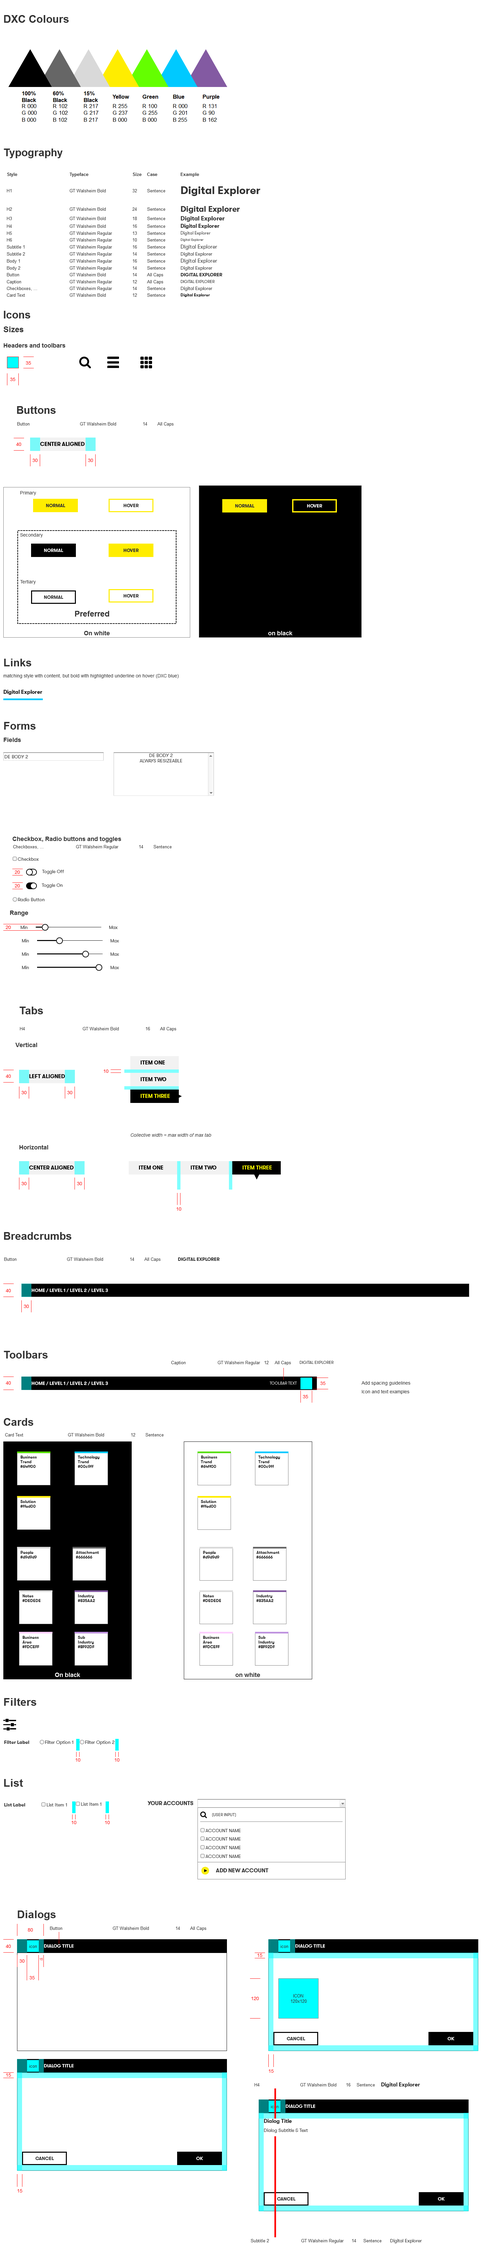
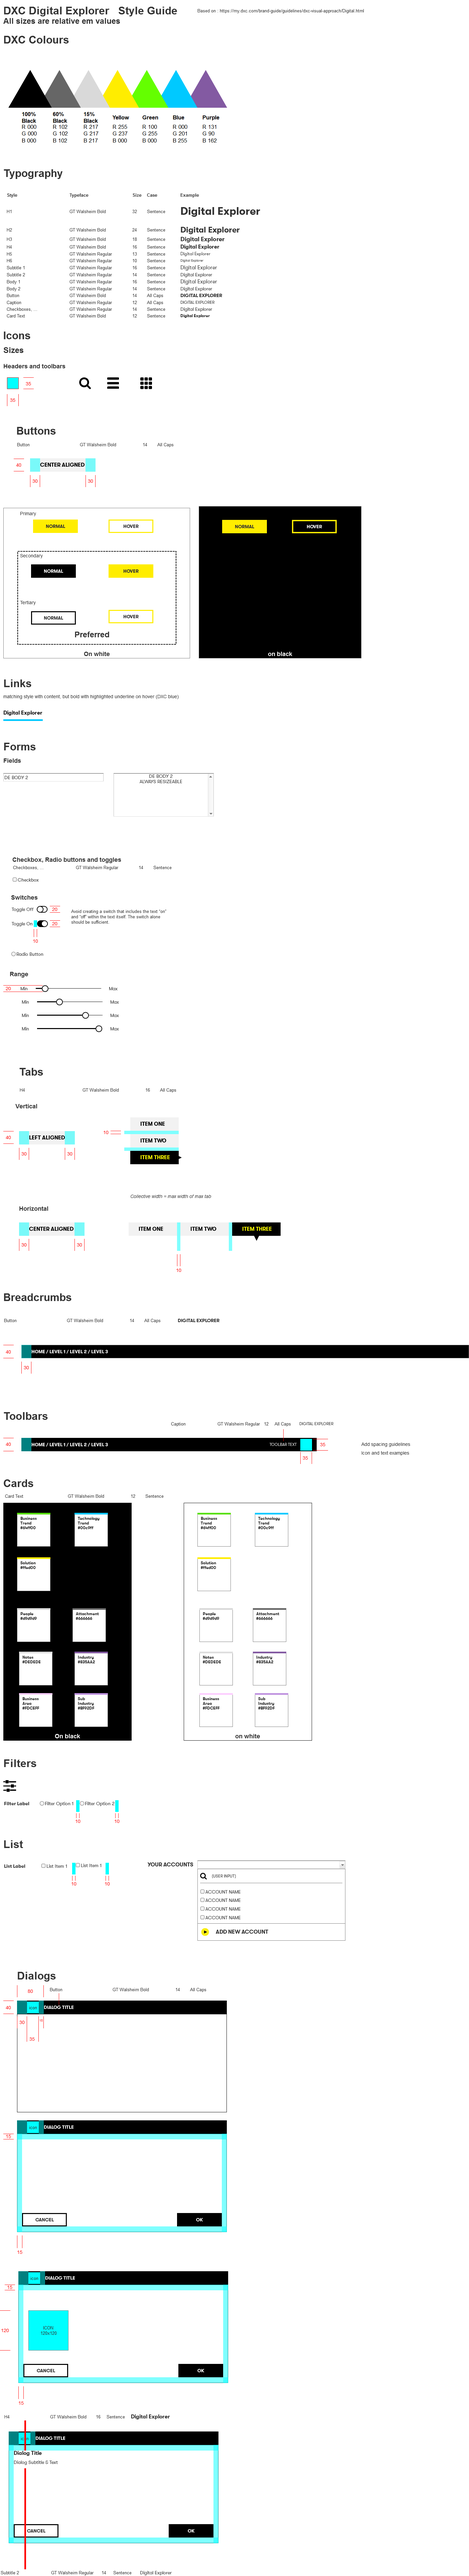
:pencil: Typography

diff --git a/ReleaseNotes/readme.md b/ReleaseNotes/readme.md
@@ -27,28 +27,43 @@
   - Improved contacts page layout (DE-997)
   - Search within Delivery centers (DE-1087)
   - Close tab validation check during add/edit (DE-1069)
+  - Inline images scale within datasheet (DE-989)
+  - Media - allow users to preview during solution add/edit (DE-1002)
+  - Improved Error reporting (DE-993)
 
 - Roadmaps UX
   - Suggested solution order based on trend count (DE-1207)
+  - Improved filter options for matching solutions (DE-1208)
   - Tooltips for risk/ambition profile table (DE-1200)
   - Fast edit to Canvas (DE-1201)
   - Ideas Capture : Improved UI (DE-980)
   - Improve menu descriptions (DE-1218)
   - Show description in Summary view (DE-1222)
   - Rename stakeholder tab (DE-1049)
-
+  - Add Workspace improved for Suggested solutions (DE-1209)
 
 - Playbooks UX
   - Style of "About DXC" page (DE-1242)
   - Renamed "DXC Showcase solutions" to "Showcase solutions" (DE-1227)
   - 
-  
+
+- Workgroups UX
+  - Warn users when making Workgroups Public (DE-1048)
+  - Support .CSV and .TXT files for document reader (DE-987)
+  - Deleting a Workspace returns user to Workgroup, not homepage (DE-1235)
+  - Improved breadcrumb links (DE-1211)
+  - Support .CSV and .TXT files (DE-)
+  - 
+
+
 
 **Fixes**
 - Solutions
   - DXC Offerings added as feature type `Offering` (DE-1086)
 - Workspaces
   - Ensure copied roadmaps are shown within the Workgroup (DE-1240)
+- Playbooks
+  - Fixed link to "About DXC" Page (DE-1261)
 
 
 ### Overview video 

diff --git a/DesignGuide/readme.md b/DesignGuide/readme.md
@@ -1,5 +1,8 @@
 # Digital Explorer Design Guidelines
 
+All sizes are 100% em values
+
+
 - [Page Layouts](pagelayouts/PageLayout.md)
   - [Landing Page](pagelayouts/landingpages.md)
   - [Trends](pagelayouts/TrendsPages.md)
@@ -10,4 +13,4 @@
 
 
 - [Style Sheet](StyleSheet.md)
-
+- [Typography](Typography.md)

diff --git a/DesignGuide/Typography.md b/DesignGuide/Typography.md
@@ -1,0 +1,17 @@
+# The DXC Typography
+
+
+
+## Issues with scaling
+
+_compare the `Card Text` Style between Walshiem and Roboto fonts_
+
+![image](images/Typography.png)<br>
+
+
+---
+
+## References
+
+- [Google Fonts](https://fonts.google.com/)
+- [Roboto Font](https://fonts.google.com/specimen/Roboto)
